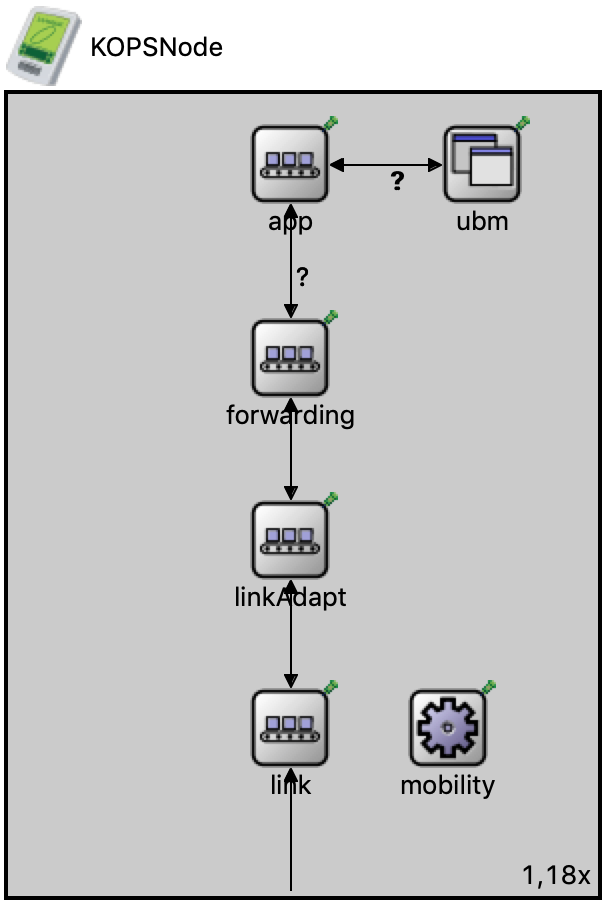
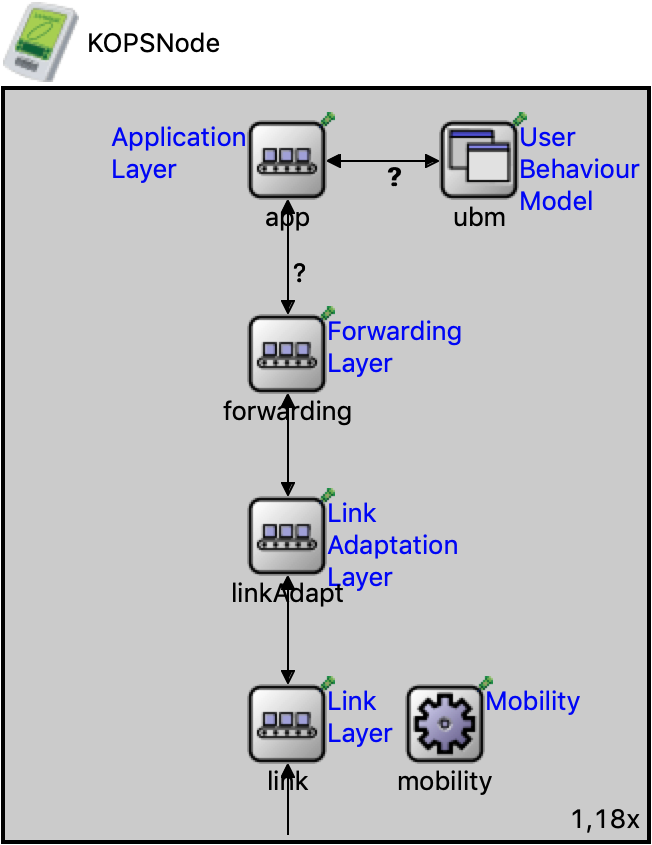
Info file fixes

Changed region(s): [[0.0, 0.0, 1.0, 1.0]]

diff --git a/README.md b/README.md
@@ -164,7 +164,7 @@ the procedure given below.
 3. Select `Run->Run As->OMNeT++ Simulation`. After clicking through other popups, the following window should appear. Select the sample configuration using the pull-down. 
 
 <p align="center">
-  <img src="res/images/ops-config-select.png" width="200"/>
+  <img src="res/images/ops-config-select.png" width="300"/>
 </p>
 
 4. Based on the selected configuration, the following window should appear.
@@ -176,7 +176,7 @@ the procedure given below.
 5. Start simulating the network by clicking on the simulation controls shown below.
 
 <p align="center">
-  <img src="res/images/simulator-controls.png" width="200"/>
+  <img src="res/images/simulator-controls.png" width="300"/>
 </p>
 
 
@@ -261,8 +261,8 @@ have default values but all can be reconfigured in the `.ini` file. Here are som
 
 
 Please check the respective model's `.ned` file to see all the parameters. Details about models are 
-found in [MODELINFO File](./res/info/MODELINFO.md). A list of sample `.ini` files provided is found in
-[SAMPLEINI File](./res/info/SAMPLEINI.md). 
+found in [MODELINFO File](./res/info/MODELINFO.md). Details of the sample `.ini` file with multiple 
+sample configurations is provided in [SAMPLEINI File](./res/info/SAMPLEINI.md). 
 
 
 

diff --git a/res/info/MODELINFO.md b/res/info/MODELINFO.md
@@ -1,7 +1,7 @@
 # Node and Network Architecture
 
 The OPS node and network architecture consisit of a network model, a node model and a number of protocol 
-layer models that can be combined to build nodes to simulate opportunistic networking. A description 
+layer models that can be combined to build nodes to simulate opportunistic networks. A description 
 of these models is given below.
 
 ## OPS Network Model (OPSNetwork)
@@ -27,7 +27,7 @@ different protocol layer implementations. The picture below shows the architectu
 the `KOPSModel` model.
 
 <p align="center">
-  <img src="../images/ops-node.png" width="300"/>
+  <img src="../images/ops-node-model.png" width="300"/>
 </p>
 
 When evaluating the performance of opportunistic networks, the following aspects must
@@ -41,9 +41,9 @@ be considered before configuring a node.
 
 4. What **link layer model** (Link Layer) used to make direct communications between nodes?
 
-5. What **mobility model is used to simulated movements of users?
+5. What **mobility model** (Mobility) is used to simulated movements of users?
 
-
+Configuring a node is done using the `.ini` file. A sample is given [here](../../simulations/omnetpp-ops.ini) 
 
 ### Application Layer
 

diff --git a/res/info/SAMPLEINI.md b/res/info/SAMPLEINI.md
@@ -1,6 +1,6 @@
 # Details of the Sample .ini File
 
-The `simulations` folder contains a sample `.ini` file with the name [`ops-omnetpp.ini`](../../simulations/ops-omnetpp.ini) that
+The `simulations` folder contains a sample `.ini` file with the name [`ops-omnetpp.ini`](../../simulations/omnetpp-ops.ini) that
 contains a number of configurations (`Config` tags) to run OPS simulatioons with different
 parameter configurations. The following table provides the details (brief) of each configuration.
 
